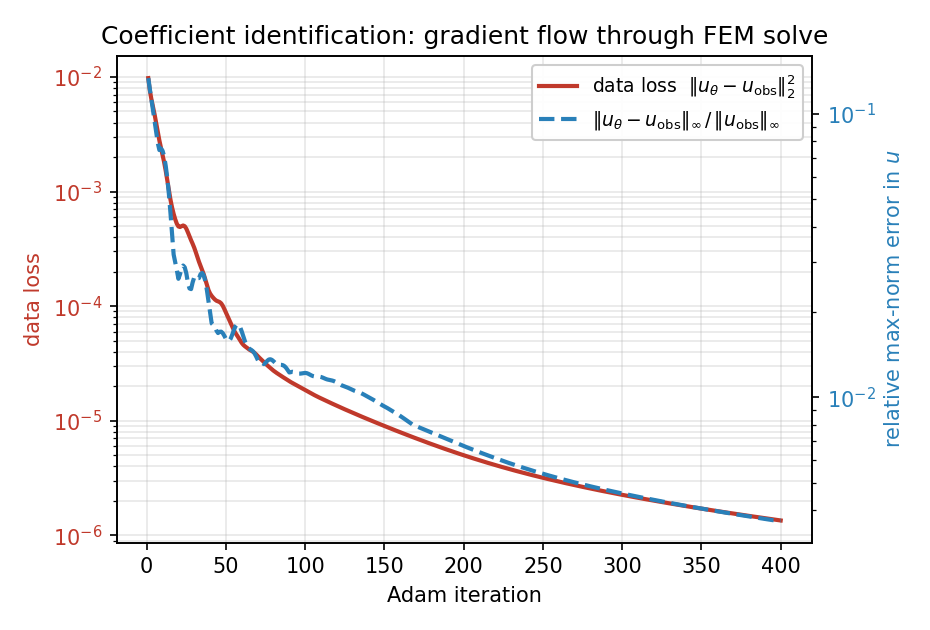
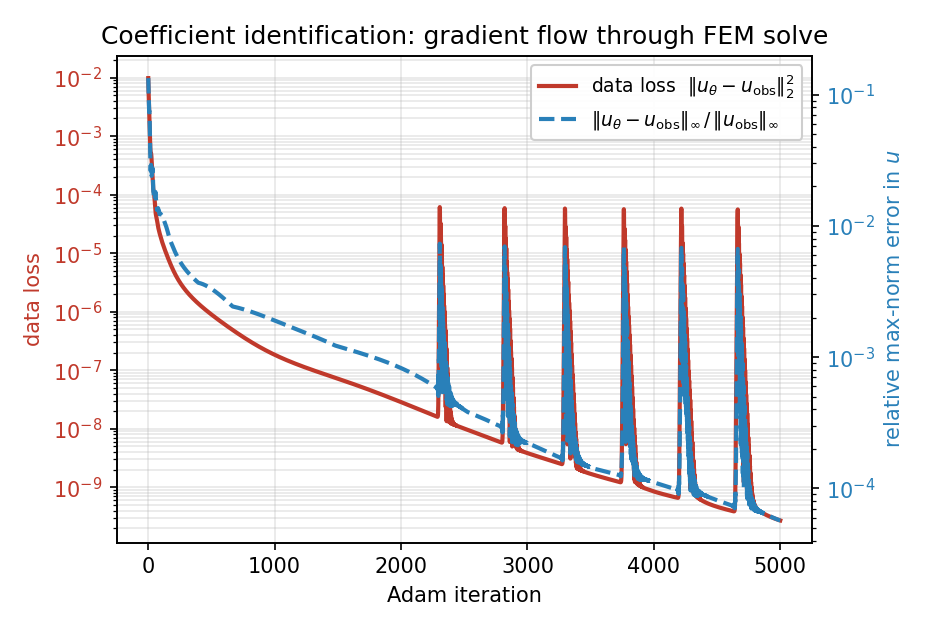
docs(differentiability): fix torch-sla attribution, converge the coefficient-ID example
- Attribute the adjoint backward to torch-sla: SparseMatrix.solve is
  inherited unchanged from torch_sla.SparseTensor, so the custom
  autograd.Function lives there, not in TensorMesh.

- Worked example 1 (coefficient identification): justify the
  kappa = 1 + tanh(theta) box (0,2), which brackets the ground-truth
  range [0.4, 1.6], and correct the narrative. The centre residual is
  low-flux ill-conditioning (slow convergence where grad u ~ 0), not a
  permanent null space; regenerate the figures at 5000 Adam steps
  (loss ~3e-10, u-error ~6e-5) so the recovery is clean except a faint
  centre blob. Trim the verbose analysis to the essentials.

- Note that tensormesh.nn currently ships only BufferDict/BufferList;
  richer neural-operator building blocks are future work.

diff --git a/docs/scripts/differentiability_figures.py b/docs/scripts/differentiability_figures.py
@@ -110,9 +110,10 @@ def fig_parameter_identification():
     theta = torch.zeros(mesh.n_points, dtype=torch.float64,
                         device=DEVICE, requires_grad=True)
     optim = torch.optim.Adam([theta], lr=3e-2)
-    n_iter = 400
+    n_iter = 5000
 
     losses, u_errs, k_errs = [], [], []
+    t_start = time.time()
     for step in range(n_iter):
         optim.zero_grad()
         kappa = 1.0 + torch.tanh(theta)
@@ -135,6 +136,18 @@ def fig_parameter_identification():
 
     with torch.no_grad():
         kappa_final = 1.0 + torch.tanh(theta)
+        # Diagnostics for the chapter prose: how far theta got pushed (it
+        # should stay clear of the saturated tails of tanh) and how the
+        # residual error concentrates in the low-flux centre of the dome.
+        tri = mesh.cells["triangle"].long()
+        ecx = pts[tri][:, :, 0].mean(1)
+        ecy = pts[tri][:, :, 1].mean(1)
+        near_centre = ((ecx - 0.5) ** 2 + (ecy - 0.5) ** 2) < 0.15 ** 2
+        kerr_elem = (kappa_final - kappa_true).abs()[tri].mean(1)
+        print(f"        {n_iter} steps in {time.time() - t_start:.1f}s on "
+              f"{DEVICE}: max|theta|={theta.abs().max().item():.3f}, "
+              f"kappa-err centre={kerr_elem[near_centre].mean().item():.3e}, "
+              f"overall={kerr_elem.mean().item():.3e}")
 
     # ---- Figure A: loss + observation mismatch over iterations.
     fig, ax = plt.subplots(figsize=(6.2, 4.2))

diff --git a/docs/source/user_guide/differentiability.rst b/docs/source/user_guide/differentiability.rst
@@ -30,9 +30,11 @@ Three pieces of TensorMesh are wired into the autograd graph:
   :class:`~tensormesh.NodeAssembler` are themselves ``nn.Module`` s.
   Any tensor that flows into a ``forward(...)`` integrand becomes
   a graph input to the assembled matrix or vector.
-* :meth:`tensormesh.sparse.SparseMatrix.solve` is implemented as a
-  :class:`torch.autograd.Function` with a custom ``backward``. The
-  backward solves the **adjoint** system
+* :meth:`tensormesh.sparse.SparseMatrix.solve` is inherited unchanged
+  from ``torch_sla.SparseTensor`` (see :doc:`linear_solvers`), so the
+  adjoint lives in ``torch-sla`` rather than in TensorMesh: the solve is
+  a :class:`torch.autograd.Function` whose custom ``backward`` solves the
+  **adjoint** system
 
   .. math::
 
@@ -128,12 +130,12 @@ mesh node by gradient descent:
    -\nabla \cdot \big(\kappa(x)\, \nabla u\big) \;=\; f \quad \text{in } \Omega,
    \qquad u = 0 \text{ on } \partial\Omega.
 
-The forward map is "FEM-solve given :math:`\kappa`"; the loss is
-the L² distance between the FEM solution and the observation; the
-gradient is computed by autograd; Adam updates :math:`\kappa`.
-We parametrise :math:`\kappa = 1 + \tanh\theta` so :math:`\kappa`
-stays strictly positive (the FEM matrix is guaranteed SPD on every
-iteration) and the unknown :math:`\theta` is unconstrained.
+The forward map is "FEM-solve given :math:`\kappa`"; the loss is the
+L² distance between the FEM solution and the observation; autograd
+supplies the gradient and Adam updates :math:`\kappa`. We parametrise
+:math:`\kappa = 1 + \tanh\theta` so :math:`\kappa` stays in
+:math:`(0, 2)` -- strictly positive, hence the FEM matrix is SPD on
+every iteration -- with :math:`\theta` unconstrained.
 
 .. code-block:: python
 
@@ -170,7 +172,7 @@ iteration) and the unknown :math:`\theta` is unconstrained.
    theta = torch.zeros(mesh.n_points, dtype=torch.float64,
                        device=device, requires_grad=True)
    optim = torch.optim.Adam([theta], lr=3e-2)
-   for step in range(400):
+   for step in range(5000):
        optim.zero_grad()
        kappa = 1.0 + torch.tanh(theta)
        u     = fem_solve(kappa, f_vals)
@@ -178,42 +180,38 @@ iteration) and the unknown :math:`\theta` is unconstrained.
        loss.backward()
        optim.step()
 
-The data loss drops about four orders of magnitude over 400
-iterations and the observation error in the max-norm bottoms out
-around :math:`4 \times 10^{-3}`:
+Over 5000 iterations the data loss drops by more than seven orders of
+magnitude and the max-norm observation error bottoms out near
+:math:`6 \times 10^{-5}`:
 
 .. figure:: ../_static/user_guide/differentiability/param_id_loss.png
    :align: center
    :width: 75%
 
-   Adam optimisation history for the coefficient-identification
-   problem. The data loss
-   :math:`\|u_\theta - u_{\rm obs}\|_2^2` drops from
-   :math:`10^{-2}` to roughly :math:`10^{-6}`; the relative
-   max-norm error in :math:`u` falls to a few parts per thousand.
+   Adam optimisation history over 5000 steps: the data loss
+   :math:`\|u_\theta - u_{\rm obs}\|_2^2` falls from :math:`10^{-2}` to
+   :math:`\sim 3 \times 10^{-10}` (the periodic spikes are Adam
+   overshooting, recovered within a few steps), and the relative
+   max-norm error in :math:`u` reaches :math:`\sim 6 \times 10^{-5}`.
 
-What does the recovered :math:`\kappa` field actually look like?
-The three-panel figure below answers that:
+The recovered coefficient field:
 
 .. figure:: ../_static/user_guide/differentiability/param_id_fields.png
    :align: center
    :width: 100%
 
    Ground truth :math:`\kappa(x)` (left), the field recovered after
-   400 Adam steps (middle), and the absolute error (right). The
-   four-lobe checkerboard is recovered cleanly almost everywhere,
-   but a localised artifact sits in the centre.
+   5000 Adam steps (middle), and the absolute error (right). The
+   four-lobe checkerboard is now recovered across the whole domain;
+   only a faint residual remains at the centre (absolute error peaking
+   near :math:`0.08` there, under :math:`0.01` over the rest of the
+   domain), where the solution gradient is small.
 
-This is a small but important lesson about adjoint-based inverse
-problems: **the forward map can be (nearly) non-injective even if
-the FEM solve itself is exact**. Where :math:`u` is small, perturbations
-of :math:`\kappa` produce vanishingly small changes in :math:`u`,
-so the optimiser cannot distinguish the truth from a family of
-nearby fields. The bulk error after 400 iterations is at the
-percent level even though the *observation* error has reached
-:math:`4 \times 10^{-3}`. Adding a simple smoothness regulariser
-(e.g. a Laplace penalty on :math:`\theta`) collapses the centre
-artifact -- left as an exercise.
+The only visible residual is a faint blob at the centre. There the
+constant source makes :math:`\nabla u` vanish, so the flux
+:math:`\kappa\,\nabla u` carries almost no information about
+:math:`\kappa` and that region is recovered slowest -- a smoothness
+penalty on :math:`\theta` removes it, left as an exercise.
 
 The whole gradient computation goes through the ``WeightedLaplace``
 assembler and the linear solve via the adjoint backward -- you
@@ -323,6 +321,16 @@ In all three the NN is a regular ``nn.Module`` and the FEM
 pipeline is a regular sequence of ``nn.Module`` calls; standard
 ``torch.optim`` optimisers work without any special hooks.
 
+.. note::
+
+   Wiring a network in needs **no** TensorMesh-specific neural-network
+   layer -- a plain :class:`torch.nn.Module` is enough, as above. Today
+   :mod:`tensormesh.nn` ships only the container utilities ``BufferDict``
+   and ``BufferList`` (used internally to register tensors as module
+   buffers), not learnable layers. Higher-level neural-operator and
+   learnable-PDE building blocks are planned for a future release; until
+   then, build the network side with ordinary ``torch.nn`` layers.
+
 
 Reproducing the figures
 -----------------------
@@ -334,9 +342,10 @@ generated by a single script:
 
    python docs/scripts/differentiability_figures.py
 
-It runs on CPU alone (~30 s) and on GPU in a few seconds, writing
-``param_id_loss.png``, ``param_id_fields.png``, and
-``topology_thermal.png`` to
+It uses only the public API. The 5000-step identification loop now
+dominates the runtime -- a few minutes either way (~3 min on a GPU) --
+after which it writes ``param_id_loss.png``, ``param_id_fields.png``,
+and ``topology_thermal.png`` to
 ``docs/source/_static/user_guide/differentiability/``.
 
 